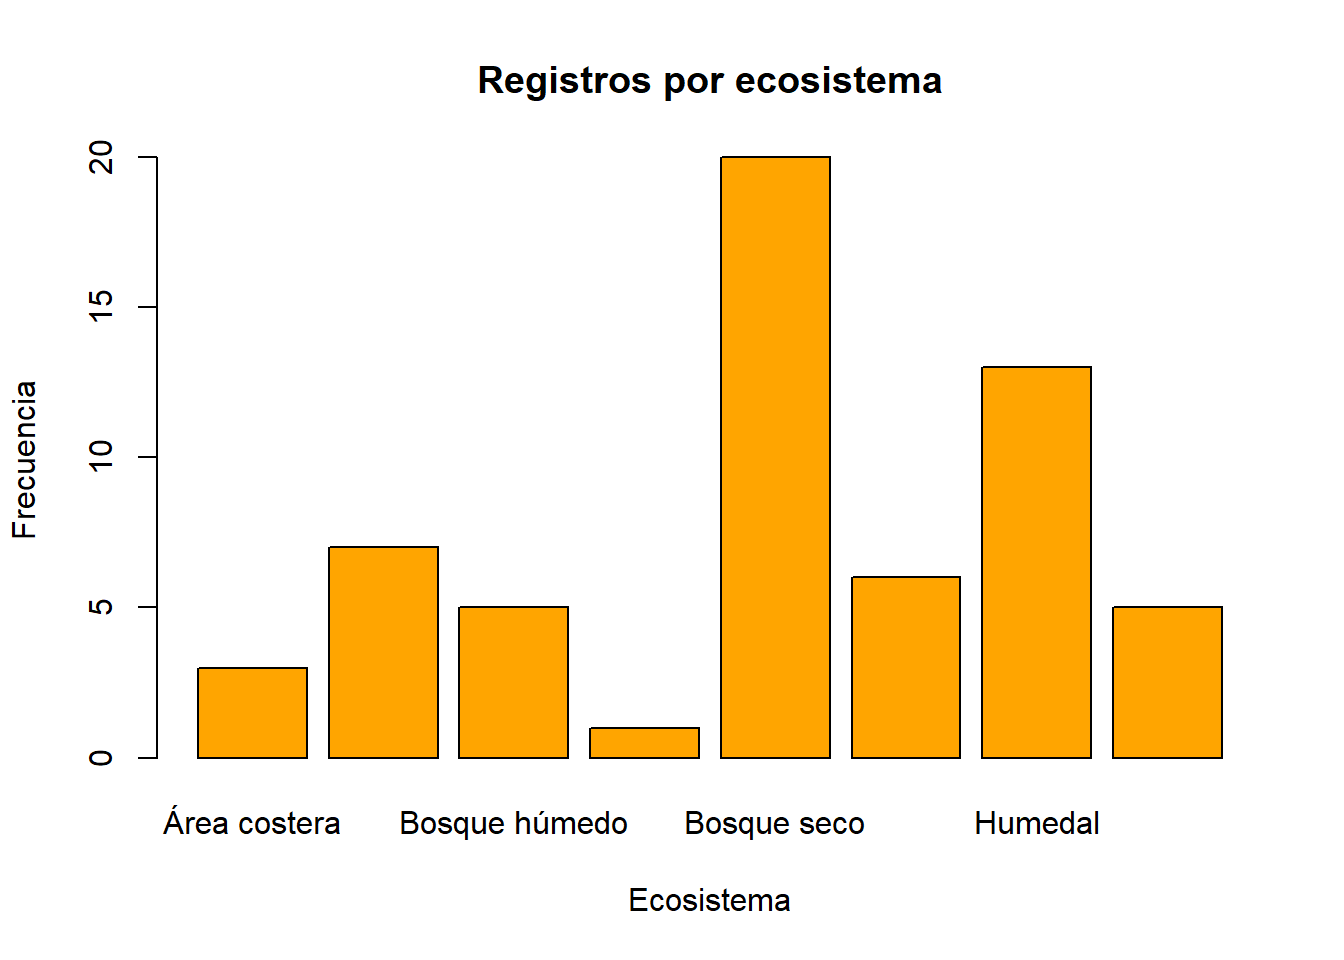
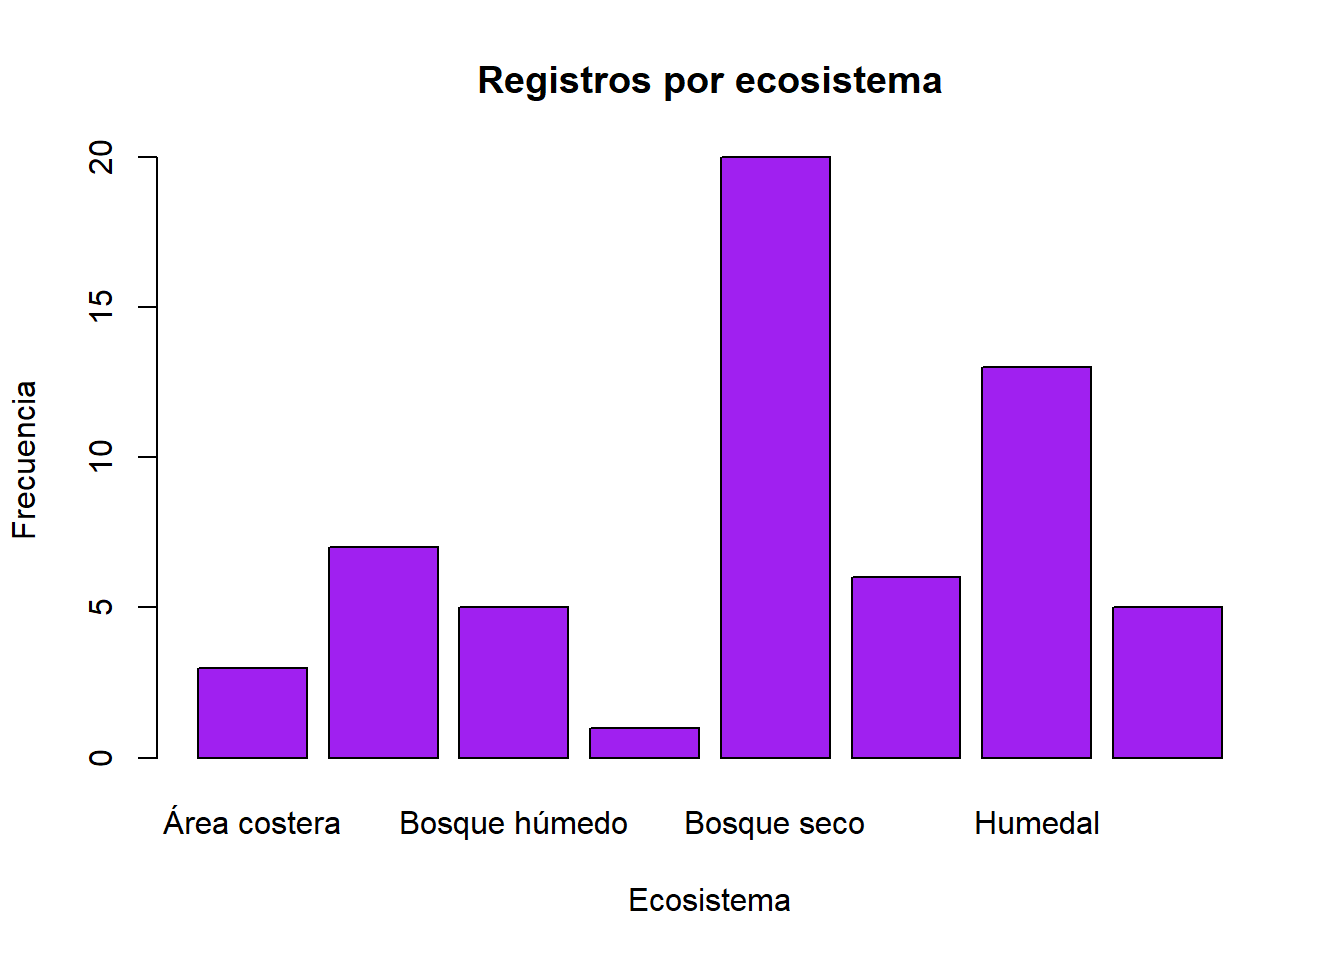
Correcciones taller 3

Changed region(s): [[0.125, 0.1562, 0.9062, 0.8125]]

diff --git a/taller3_diaz_sonia.html b/taller3_diaz_sonia.html
@@ -6,10 +6,10 @@
 
 <meta name="viewport" content="width=device-width, initial-scale=1.0, user-scalable=yes">
 
-<meta name="author" content="Sonia del Carmen Diaz Arrieta">
-<meta name="dcterms.date" content="2026-05-05">
+<meta name="author" content="Sonia del Carmen Díaz Arrieta">
+<meta name="dcterms.date" content="2026-05-16">
 
-<title>Herpetofauna del Caribe Colombiano- Analisis Exploratorio</title>
+<title>Herpetofauna del Caribe Colombiano- Análisis Exploratorio</title>
 <style>
 code{white-space: pre-wrap;}
 span.smallcaps{font-variant: small-caps;}
@@ -95,7 +95,7 @@ pre > code.sourceCode > span > a:first-child::before { text-decoration: underlin
 
 <header id="title-block-header" class="quarto-title-block default">
 <div class="quarto-title">
-<h1 class="title">Herpetofauna del Caribe Colombiano- Analisis Exploratorio</h1>
+<h1 class="title">Herpetofauna del Caribe Colombiano- Análisis Exploratorio</h1>
 <p class="subtitle lead">Taller Semana 3 . Curso 20953</p>
 </div>
 
@@ -106,14 +106,14 @@ pre > code.sourceCode > span > a:first-child::before { text-decoration: underlin
     <div>
     <div class="quarto-title-meta-heading">Author</div>
     <div class="quarto-title-meta-contents">
-             <p>Sonia del Carmen Diaz Arrieta </p>
+             <p>Sonia del Carmen Díaz Arrieta </p>
           </div>
   </div>
     
     <div>
     <div class="quarto-title-meta-heading">Published</div>
     <div class="quarto-title-meta-contents">
-      <p class="date">May 5, 2026</p>
+      <p class="date">May 16, 2026</p>
     </div>
   </div>
   
@@ -127,7 +127,7 @@ pre > code.sourceCode > span > a:first-child::before { text-decoration: underlin
 
 <section id="introducción" class="level2">
 <h2 class="anchored" data-anchor-id="introducción">Introducción</h2>
-<p>En el presente documento se realiza un análisis exploratorio de un conjunto de datos sobre la herpetofauna del Caribe colombiano, específicamente en los departamentos de Atlántico y Magdalena durante el año 2023. El dataset incluye información de <em>reptiles</em> y anfibios, lo que permite examinar patrones de distribución y características biológicas en diferentes ecosistemas.</p>
+<p>En el presente documento se realiza un análisis exploratorio de un conjunto de datos sobre la herpetofauna del Caribe colombiano, específicamente en los departamentos de Atlántico, Magdalena y Córdoba durante el año 2023. El dataset incluye información de <em>reptiles</em> y <em>anfibios</em>, lo que permite examinar patrones de distribución y características biológicas en diferentes ecosistemas.</p>
 <p>Las variables principales que se analizarán son <strong>ecosistema</strong>, <strong>clase</strong>, <strong>longitud_svl_mm</strong>, <strong>peso_g</strong> y <code>departamento</code>, las cuales permiten describir la distribución espacial y las características morfométricas de los organismos registrados.</p>
 <p>Este tipo de análisis es importante para comprender la biodiversidad regional y apoyar procesos de investigación y conservación en ecosistemas del Caribe colombiano.</p>
 <div class="cell">
@@ -207,7 +207,7 @@ pre > code.sourceCode > span > a:first-child::before { text-decoration: underlin
 <h2 class="anchored" data-anchor-id="registros-por-ecosistema">Registros por ecosistema</h2>
 <div class="cell">
 <div class="code-copy-outer-scaffold"><div class="sourceCode cell-code" id="cb7"><pre class="sourceCode r code-with-copy"><code class="sourceCode r"><span id="cb7-1"><a href="#cb7-1" aria-hidden="true" tabindex="-1"></a><span class="fu">barplot</span>(<span class="fu">table</span>(herp<span class="sc">$</span>ecosistema),</span>
-<span id="cb7-2"><a href="#cb7-2" aria-hidden="true" tabindex="-1"></a>        <span class="at">col =</span> <span class="st">"orange"</span>,</span>
+<span id="cb7-2"><a href="#cb7-2" aria-hidden="true" tabindex="-1"></a>        <span class="at">col =</span> <span class="st">"purple"</span>,</span>
 <span id="cb7-3"><a href="#cb7-3" aria-hidden="true" tabindex="-1"></a>        <span class="at">main =</span> <span class="st">"Registros por ecosistema"</span>,</span>
 <span id="cb7-4"><a href="#cb7-4" aria-hidden="true" tabindex="-1"></a>        <span class="at">xlab =</span> <span class="st">"Ecosistema"</span>,</span>
 <span id="cb7-5"><a href="#cb7-5" aria-hidden="true" tabindex="-1"></a>        <span class="at">ylab =</span> <span class="st">"Frecuencia"</span>)</span></code></pre></div><button title="Copy to Clipboard" class="code-copy-button"><i class="bi"></i></button></div>
@@ -220,7 +220,7 @@ pre > code.sourceCode > span > a:first-child::before { text-decoration: underlin
 </div>
 </div>
 </div>
-<p>Se observan diferencias en la cantidad de registros por ecosistema, lo que puede indicar variaciones en la diversidad o en el esfuerzo de muestreo.</p>
+<p>El gráfico muestra que los registros no se distribuyen de manera uniforme entre los ecosistemas. Algunos ecosistemas presentan mayor frecuencia de registros, lo cual puede relacionarse con una mayor presencia de especies, mejores condiciones para el muestreo o mayor facilidad de acceso a esas zonas. Esta diferencia también puede indicar que el esfuerzo de observación no fue igual en todos los ecosistemas.</p>
 </section>
 <section id="longitud-por-clase" class="level2">
 <h2 class="anchored" data-anchor-id="longitud-por-clase">Longitud por clase</h2>
@@ -239,7 +239,7 @@ pre > code.sourceCode > span > a:first-child::before { text-decoration: underlin
 </div>
 </div>
 </div>
-<p>Se evidencian diferencias en la longitud corporal entre reptiles y anfibios.</p>
+<p>El boxplot permite comparar la longitud corporal entre las clases registradas. En general, se observan diferencias entre reptiles y anfibios, lo cual es esperable porque ambos grupos poseen características corporales distintas. Esta comparación ayuda a identificar patrones morfométricos básicos dentro del conjunto de datos.</p>
 <div class="callout callout-style-default callout-warning callout-titled">
 <div class="callout-header d-flex align-content-center">
 <div class="callout-icon-container">
@@ -256,9 +256,9 @@ Warning
 </section>
 <section id="reflexiones" class="level2">
 <h2 class="anchored" data-anchor-id="reflexiones">Reflexiones</h2>
-<p>El uso de Quarto permite integrar código y texto en un solo documento, facilitando la reproducibilidad y la comunicación científica.</p>
-<p>Si se agregan nuevos datos, solo es necesario actualizar el archivo CSV y volver a ejecutar el documento.</p>
-<p>Un repositorio público en GitHub permite que cualquier persona acceda al análisis, promoviendo la transparencia en la ciencia.</p>
+<p>Un documento Quarto tiene la ventaja de integrar texto, código, resultados y gráficos en un solo archivo, lo que facilita la comunicación de resultados biológicos de forma clara y reproducible. A diferencia de un script <code>.R</code> simple, Quarto permite explicar cada paso del análisis y presentar los resultados de una manera más ordenada para otros lectores.</p>
+<p>Si se actualizaran los datos añadiendo registros de 2024, una persona que quiera reproducir el análisis debería descargar o actualizar el archivo CSV dentro de la carpeta <code>datos/</code>, verificar que las variables mantengan los mismos nombres y volver a renderizar el documento Quarto. De esta forma, los gráficos y resultados se generarían nuevamente con la información actualizada.</p>
+<p>Que el repositorio sea público en GitHub significa que cualquier persona con el enlace puede consultar los archivos del proyecto, revisar el código utilizado y verificar los resultados obtenidos. Esto favorece la ciencia abierta porque permite transparencia, colaboración y revisión por parte de otros investigadores o docentes.</p>
 </section>
 
 </main>
